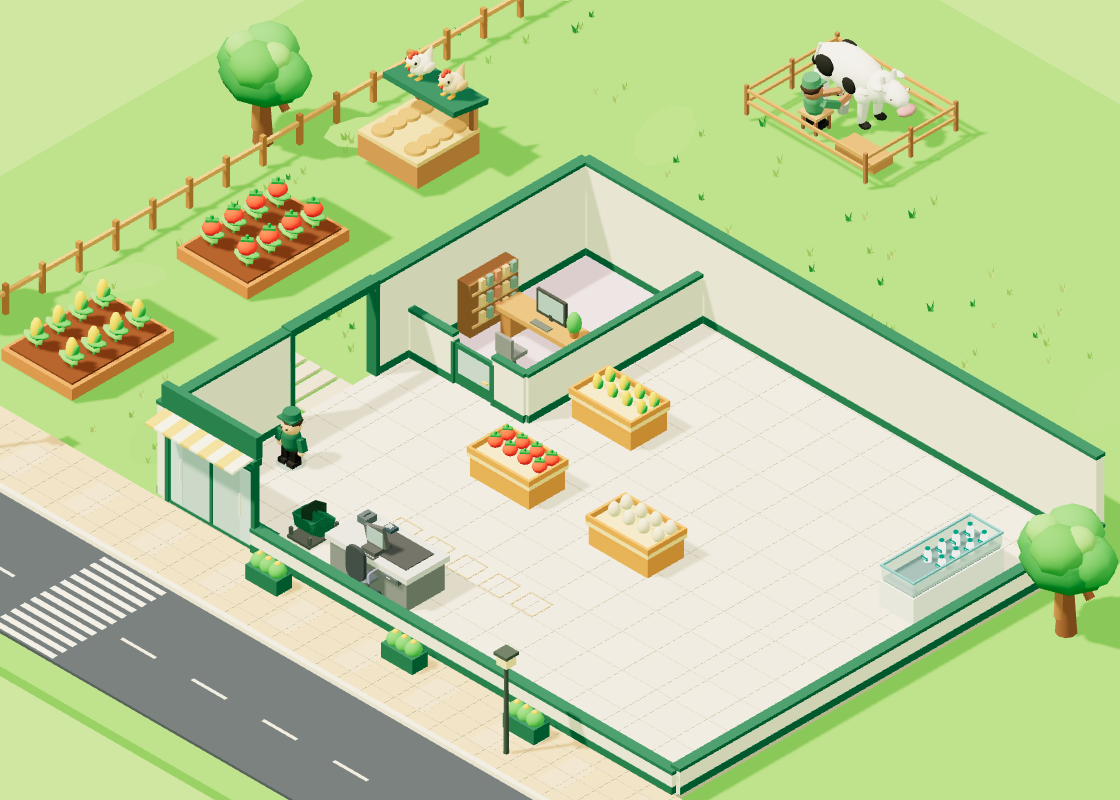
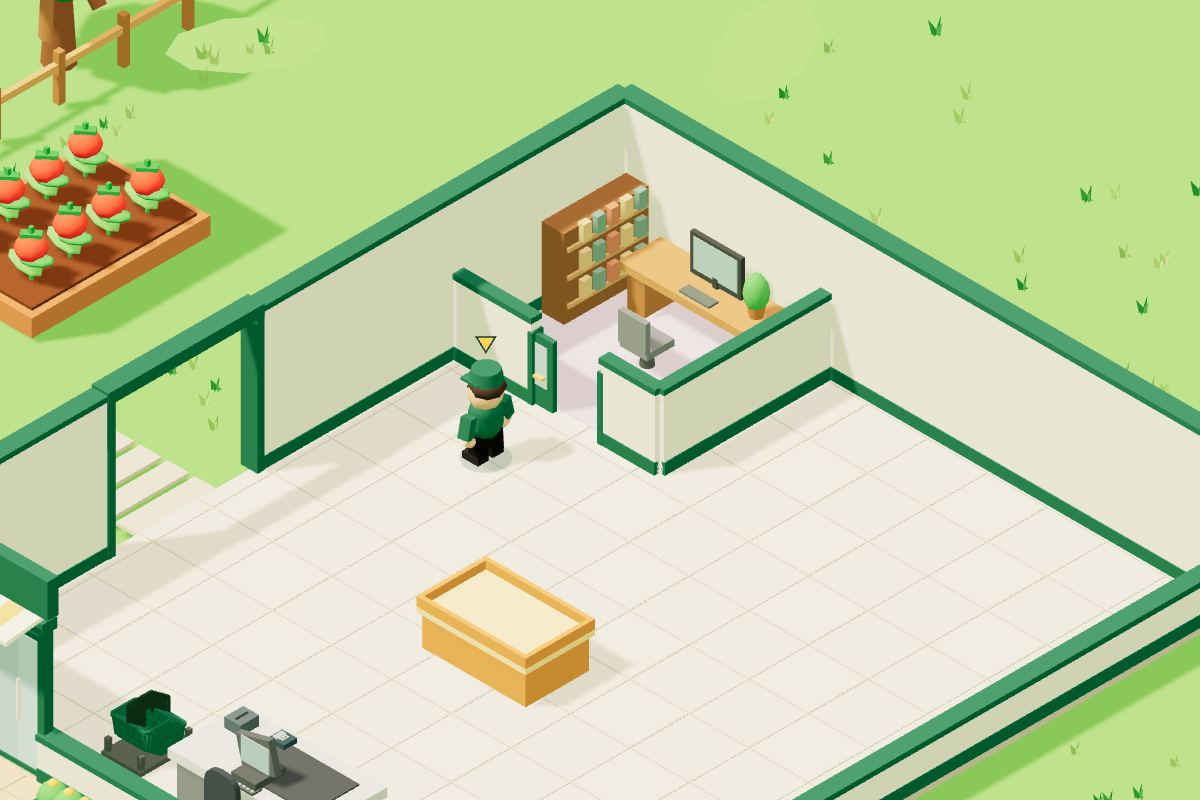
fix: office placement

diff --git a/src/jogo/bairro.js b/src/jogo/bairro.js
@@ -1,6 +1,6 @@
 import * as THREE from 'three';
 import { PALETAS } from './personalizacao.js';
-import { ALTURA_PAREDE_BAIXA, ALA_PRODUCAO, ALA_LEITE, ALA_TRIGO, ALA_PADARIA, ALA_ARTESANAL } from './configuracao.js';
+import { ALTURA_PAREDE_BAIXA, ESCRITORIO, ALA_PRODUCAO, ALA_LEITE, ALA_TRIGO, ALA_PADARIA, ALA_ARTESANAL } from './configuracao.js';
 
 // As mesmas paredes orientam a geometria e as colisões. A fachada é cortada para revelar a loja.
 export const PAREDES_LOJA = [
@@ -11,13 +11,14 @@ export const PAREDES_LOJA = [
   { x: 4.65, z: 6.7, w: 8.9, d: 0.28, h: ALTURA_PAREDE_BAIXA }
 ];
 
+const limitesEscritorio = ESCRITORIO.limites;
 export const PAREDES_ESCRITORIO = [
   // O fundo e a lateral esquerda usam as paredes externas, sem divisória duplicada.
-  { x: 1.1, z: -5.15, w: 0.18, d: 6.3, h: 1.45 },
-  { x: -2.25, z: -2, w: 1.7, d: 0.18, h: 1.45 },
-  { x: 0.55, z: -2, w: 1.1, d: 0.18, h: 1.45 }
+  { x: limitesEscritorio.maxX, z: (limitesEscritorio.minZ + limitesEscritorio.maxZ) / 2, w: 0.18, d: limitesEscritorio.maxZ - limitesEscritorio.minZ, h: 1.45 },
+  { x: -2.25, z: limitesEscritorio.maxZ, w: 1.7, d: 0.18, h: 1.45 },
+  { x: 0.55, z: limitesEscritorio.maxZ, w: 1.1, d: 0.18, h: 1.45 }
 ];
-export const PORTA_ESCRITORIO = { x: -0.7, z: -2, w: 1.4, d: 0.12 };
+export const PORTA_ESCRITORIO = { x: -0.7, z: limitesEscritorio.maxZ, w: 1.4, d: 0.12 };
 export const POSICAO_PORTA_ESCRITORIO = { fechada: -1.4, aberta: -2.75 };
 export const ANGULOS_PORTAS_ENTRADA = {
   fechadas: { esquerda: 0, direita: 0 },
@@ -38,8 +39,8 @@ export function angulosPortasEntrada(abertura) {
 }
 
 export const MOBILIARIO_LOJA = [
-  { x: -0.8, z: -4.6, w: 2.7, d: 0.85 },
-  { x: -2.65, z: -4.4, w: 0.45, d: 1.7 }
+  ESCRITORIO.mesa,
+  ESCRITORIO.estante
 ];
 
 // Objetos baixos ou estreitos da calçada também precisam participar da
@@ -262,33 +263,39 @@ export function construirBairro(cena, { caixa, cilindro, esfera }) {
   bloco(0.34, 0.22, 3.15, 0x286750, -3.1, 3.02, 0.7, 'principal');
   for (let x = -5; x < -3.3; x += 0.55) chao(3, 0.43, 0.06, 1.6, 0xd6c7ac, x, 0.16, 0.7);
   // Escritório no canto esquerdo, com paredes e porta à meia altura para manter o interior visível.
-  chao(6, 3.85, 0.012, 6.1, 0xd5c2d5, -1, 0.241, -5.1);
-  for (const x of [-1.4, 0]) bloco(0.09, 1.25, 0.23, 0x286750, x, 0.855, -2, 'principal');
-  const porta = new THREE.Group(); porta.position.set(POSICAO_PORTA_ESCRITORIO.fechada, 0.23, -2); grupo.add(porta); destino = porta;
+  chao(6, 3.85, 0.012, limitesEscritorio.maxZ - limitesEscritorio.minZ - 0.2, 0xd5c2d5, -1, 0.241, (limitesEscritorio.minZ + limitesEscritorio.maxZ) / 2);
+  for (const x of [-1.4, 0]) bloco(0.09, 1.25, 0.23, 0x286750, x, 0.855, PORTA_ESCRITORIO.z, 'principal');
+  const porta = new THREE.Group(); porta.position.set(POSICAO_PORTA_ESCRITORIO.fechada, 0.23, PORTA_ESCRITORIO.z); grupo.add(porta); destino = porta;
   bloco(1.32, 1.22, 0.09, 0x286750, 0.7, 0.61, 0, 'principal');
   bloco(1.1, 0.72, 0.015, 0xa8c7c9, 0.7, 0.72, 0.053);
   bloco(1.1, 0.72, 0.015, 0xa8c7c9, 0.7, 0.72, -0.053);
   for (const z of [-0.1, 0.1]) bloco(0.18, 0.045, 0.08, 0xe7b65a, 1.14, 0.55, z, 'destaque');
-  destino = grupo;
-  bloco(2.7, 0.14, 0.85, 0xbc8752, -0.8, 1.02, -4.6);
-  for (const x of [-1.9, 0.3]) bloco(0.35, 0.72, 0.65, 0xa87244, x, 0.6, -4.6);
-  bloco(1.02, 0.72, 0.08, 0x414846, -0.7, 1.48, -4.72);
-  const telaComputador = bloco(0.88, 0.57, 0.015, 0x94b7b5, -0.7, 1.5, -4.675);
+  const mesa = new THREE.Group(); mesa.name = 'mesa-escritorio';
+  mesa.position.set(ESCRITORIO.mesa.x, 0, ESCRITORIO.mesa.z); grupo.add(mesa); destino = mesa;
+  bloco(ESCRITORIO.mesa.w, 0.14, ESCRITORIO.mesa.d, 0xbc8752, 0, 1.02, 0);
+  for (const x of [-1.1, 1.1]) bloco(0.35, 0.72, 0.65, 0xa87244, x, 0.6, 0);
+  bloco(1.02, 0.72, 0.08, 0x414846, 0.1, 1.48, -0.12);
+  const telaComputador = bloco(0.88, 0.57, 0.015, 0x94b7b5, 0.1, 1.5, -0.075);
   telaComputador.material = telaComputador.material.clone();
-  bloco(0.1, 0.2, 0.12, 0x414846, -0.7, 1.16, -4.72);
-  bloco(0.6, 0.035, 0.2, 0x606b67, -0.7, 1.11, -4.34);
-  bloco(0.55, 0.12, 0.55, 0x777d82, -0.9, 0.63, -3.5);
-  bloco(0.55, 0.55, 0.1, 0x777d82, -0.9, 0.95, -3.24);
-  cilindro(grupo, 0.07, 0.12, 0.4, 0x555b60, -0.9, 0.42, -3.5);
-  bloco(0.45, 1.6, 1.7, 0x8c613d, -2.65, 1.03, -4.4);
+  bloco(0.1, 0.2, 0.12, 0x414846, 0.1, 1.16, -0.12);
+  bloco(0.6, 0.035, 0.2, 0x606b67, 0.1, 1.11, 0.26);
+  cilindro(mesa, 0.15, 0.11, 0.25, 0xc07a42, 1, 1.22, 0);
+  esfera(mesa, 0.25, 0x4bb356, 1, 1.5, 0, 0.8, 1.3, 0.8);
+  const cadeira = new THREE.Group(); cadeira.name = 'cadeira-escritorio';
+  cadeira.position.set(ESCRITORIO.cadeira.x, 0, ESCRITORIO.cadeira.z); grupo.add(cadeira); destino = cadeira;
+  bloco(0.55, 0.12, 0.55, 0x777d82, 0, 0.63, 0);
+  bloco(0.55, 0.55, 0.1, 0x777d82, 0, 0.95, 0.26);
+  cilindro(cadeira, 0.07, 0.12, 0.4, 0x555b60, 0, 0.42, 0);
+  const estante = new THREE.Group(); estante.name = 'estante-escritorio';
+  estante.position.set(ESCRITORIO.estante.x, 0, ESCRITORIO.estante.z); grupo.add(estante); destino = estante;
+  bloco(ESCRITORIO.estante.w, 1.6, ESCRITORIO.estante.d, 0x8c613d, 0, 1.03, 0);
   for (let i = 0; i < 3; i++) {
-    bloco(0.045, 0.07, 1.6, 0xc79765, -2.4, 0.55 + i * 0.49, -4.4);
-    for (let j = 0; j < 5; j++) bloco(0.13, 0.3, 0.17, [0x78998a,0xd8b57d,0xc67e64][j % 3], -2.39, 0.75 + i * 0.49, -5.05 + j * 0.28);
+    bloco(0.045, 0.07, 1.6, 0xc79765, 0.25, 0.55 + i * 0.49, 0);
+    for (let j = 0; j < 5; j++) bloco(0.13, 0.3, 0.17, [0x78998a,0xd8b57d,0xc67e64][j % 3], 0.26, 0.75 + i * 0.49, -0.65 + j * 0.28);
   }
-  for (const [x,z] of [[-2.3,-2.3],[0.2,-4.6]]) {
-    cilindro(grupo, 0.15, 0.11, 0.25, 0xc07a42, x, z === -4.6 ? 1.22 : 0.36, z);
-    esfera(grupo, 0.25, 0x4bb356, x, z === -4.6 ? 1.5 : 0.65, z, 0.8, 1.3, 0.8);
-  }
+  destino = grupo;
+  cilindro(grupo, 0.15, 0.11, 0.25, 0xc07a42, -2.3, 0.36, PORTA_ESCRITORIO.z - 0.3);
+  esfera(grupo, 0.25, 0x4bb356, -2.3, 0.65, PORTA_ESCRITORIO.z - 0.3, 0.8, 1.3, 0.8);
   // Vitrine e portas duplas que abrem quando um cliente atravessa o vão.
   const entrada = new THREE.Group(); entrada.position.x = -8.82; grupo.add(entrada); destino = entrada;
   for (const x of [6, 9.05]) {

diff --git a/tests/seguranca-layout.test.js b/tests/seguranca-layout.test.js
@@ -1,6 +1,6 @@
 import test from 'node:test';
 import assert from 'node:assert/strict';
-import { CONFIG, PRODUTOS } from '../src/jogo/configuracao.js';
+import { CONFIG, PRODUTOS, ESCRITORIO } from '../src/jogo/configuracao.js';
 import { Simulacao } from '../src/jogo/simulacao.js';
 import { geometriaEstacao, intervaloEstacoes, distanciaEstacao } from '../src/jogo/estacoes.js';
 import { segmentoLivre } from '../src/jogo/navegacao.js';
@@ -47,13 +47,20 @@ test('inventário misto abastece apenas a banca visitada', () => {
   }
 });
 
-test('jogador no escritório não abastece milho através da parede mesmo dentro do alcance', () => {
+test('escritório compacto fica separado do milho e devolve acesso ao salão', () => {
   const sim=lojaCompleta(); sim.estado.jogador.inventario=['milho'];
-  Object.assign(sim.estado.jogador,{x:0.9,z:PRODUTOS.milho.prateleira.z});
-  assert.ok(distanciaEstacao(sim.estado.jogador, PRODUTOS.milho.prateleira) < CONFIG.raioInteracao);
+  Object.assign(sim.estado.jogador,{x:0.9,z:ESCRITORIO.limites.maxZ-0.35});
+  assert.equal(segmentoLivre(sim.estado.jogador, PRODUTOS.milho.prateleira, sim.obstaculos()), false);
+  assert.ok(distanciaEstacao(sim.estado.jogador, PRODUTOS.milho.prateleira) >= CONFIG.raioInteracao);
   sim.tempo=1; sim.interagir();
   assert.deepEqual(sim.estado.jogador.inventario,['milho']);
   assert.equal(sim.estado.produtos.milho.prateleira,0);
+  Object.assign(sim.estado.jogador,{x:0.9,z:PRODUTOS.milho.prateleira.z});
+  assert.equal(segmentoLivre(sim.estado.jogador, sim.estado.jogador, sim.obstaculos(), 0.27), true);
+  assert.ok(distanciaEstacao(sim.estado.jogador, PRODUTOS.milho.prateleira) < CONFIG.raioInteracao);
+  sim.interagir();
+  assert.deepEqual(sim.estado.jogador.inventario,[]);
+  assert.equal(sim.estado.produtos.milho.prateleira,1);
 });
 
 test('passagem entre estufa e oficina não entrega ingredientes nem recolhe lotes', () => {

diff --git a/src/jogo/configuracao.js b/src/jogo/configuracao.js
@@ -1,5 +1,11 @@
 // Ajuste a economia e os pontos do mapa aqui, sem alterar os sistemas do jogo.
 export const ALTURA_PAREDE_BAIXA = 0.75;
+export const ESCRITORIO = {
+  limites: { minX: -3.1, maxX: 1.1, minZ: -8.3, maxZ: -4.8 },
+  mesa: { x: -0.8, z: -7.65, w: 2.7, d: 0.85 },
+  estante: { x: -2.65, z: -7.25, w: 0.45, d: 1.7 },
+  cadeira: { x: -0.9, z: -6.55 }
+};
 
 export const CONFIG = {
   chaveSalvamento: 'mercadinho-do-bairro-v1',
@@ -46,7 +52,7 @@ export const CONFIG = {
   acessoCaixa: { x: 1.55, z: 5.25 },
   clienteCaixa: { x: 2.2, z: 3.5 },
   cadeiraCaixa: { x: 3.45, z: 6.05 },
-  cadeiraEscritorio: { x: -0.9, z: -3.5 },
+  cadeiraEscritorio: ESCRITORIO.cadeira,
   areaFuncionarioCaixa: { x: 3.45, z: 6.05, w: 0.8, d: 0.9 },
   anguloCaixa: Math.PI,
   anguloEscritorio: Math.PI,

diff --git a/docs/PLANTA-LOJA-V2.md b/docs/PLANTA-LOJA-V2.md
@@ -14,7 +14,7 @@ O terreno aumentou para **40 × 37 u**, centrado em `(4; -4)`. A câmera e a nav
 
 A loja começa com **12,2 × 15 u**, apenas tomates e a infraestrutura inicial. O salão completo ocupa `x=-3,1…21,1`, `z=-8,3…6,7`, com **24,2 × 15 u**. O anexo artesanal ocupa `x=9,1…21,1`, `z=-19,5…-8,3`, com **12 × 11,2 u**. Área final aproximada: **363 + 134,4 = 497,4 u²**, pelas linhas centrais das paredes.
 
-- Entrada, cestas, mesa do escritório e caixa conservam suas posições. O escritório usa as paredes externas ao fundo e à esquerda; sua divisória lateral e piso vão até o fundo do salão em `z=-8,3`, sem uma parede interna duplicada em `z=-6`.
+- Entrada, cestas e caixa conservam suas posições. O escritório compacto mede `4,2 × 3,5 u`, entre `z=-8,3` e `z=-4,8`, usando as paredes externas ao fundo e à esquerda. A porta e a divisória frontal ficam em `z=-4,8`, liberando `2,8 u` de profundidade para o salão. A mesa fica junto à parede do fundo (`z=-7,65`), a estante ocupa o canto esquerdo (`z=-7,25`) e a cadeira acompanha a mesa (`z=-6,55`), com acesso livre pela porta.
 - Tomate e milho têm **2,2 u livres** entre bancas; tomate, ovos e trigo têm **2 u** entre as bordas da mesma fileira.
 - A padaria fica mais ao fundo, separada das bancas da frente e da entrega de trigo.
 - Leite e queijo continuam em **ilhas frias independentes das paredes**. O leite permanece no mesmo lugar do N5 em diante.
@@ -70,7 +70,7 @@ Os painéis continuam fechados e com colisão, usando o mesmo acabamento das par
 
 O alcance considera o retângulo real da estação, sem exigir um ponto no piso. Paredes ou móveis entre o jogador e o objeto impedem a transferência. Inventário misto abastece somente a banca visitada; oficinas recebem apenas os ingredientes da receita. A escolha atua em uma estação por intervalo.
 
-Os **19 envelopes de coleta e reposição** têm separação superior a duas vezes o raio de interação; portanto, produtos diferentes não compartilham alcance. O teste também verifica todos os lados acessíveis dos objetos, corredor entre estufa e oficina, bloqueio através da parede do escritório e preservação de dinheiro, compras, ingredientes e cargas na migração.
+Os **19 envelopes de coleta e reposição** têm separação superior a duas vezes o raio de interação; portanto, produtos diferentes não compartilham alcance. O teste também verifica todos os lados acessíveis dos objetos, corredor entre estufa e oficina, separação do escritório e acesso ao salão recuperado, e preservação de dinheiro, compras, ingredientes e cargas na migração.
 
 Regenerar as plantas com `node scripts/render-floor-plan.mjs`. Verificar ida e volta de todos os pontos de coleta, reposição e compra nos níveis 1, 3, 4, 5, 7, 9, 11, 12, 13 e 15 com `node scripts/check-store-layout.mjs`. Rodar `npm test` e `npm run build` para conferir circulação com dez clientes, produção, repositor, animações e salvamentos.
 
